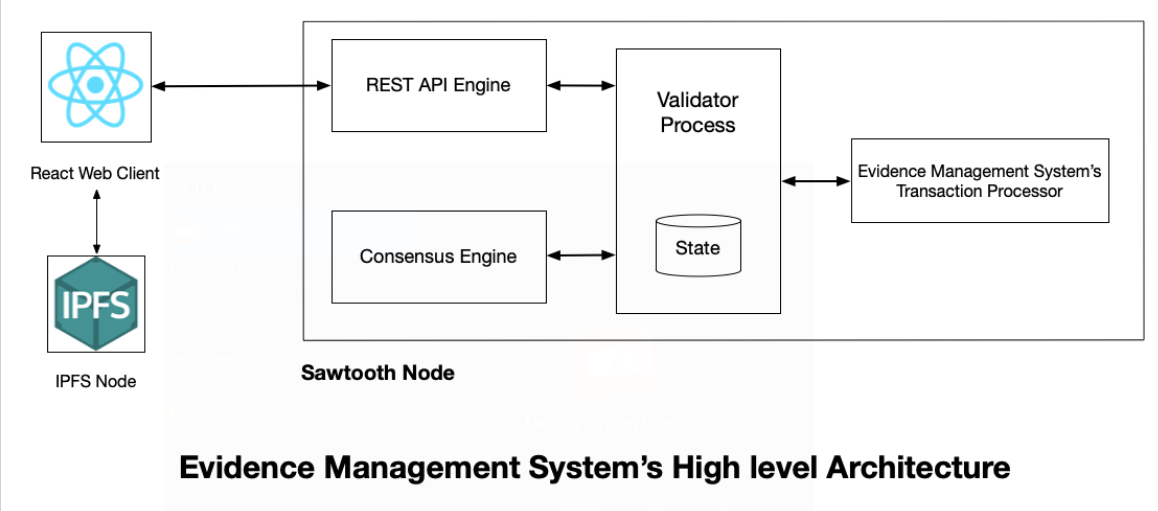
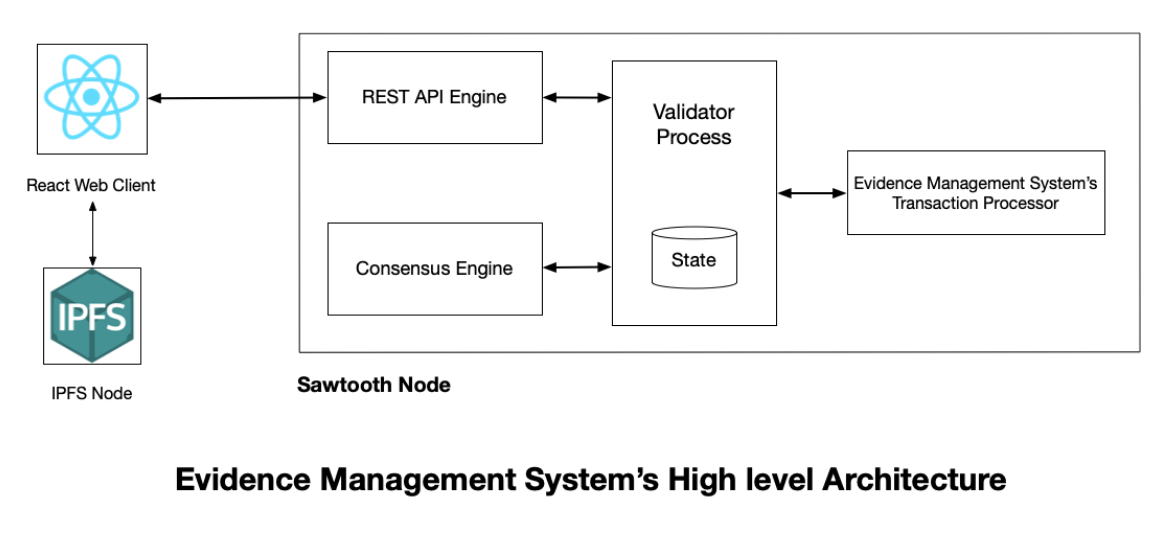
Readme image fixed

diff --git a/README.md b/README.md
@@ -6,7 +6,7 @@ Evidence Management System based on Hyperledger Sawtooth using IPFS with PBFT or
 
 **Check out the Transaction Processor code and Full Documentation [here](https://github.com/Shritesh99/Evidence-Management-System)**
 
-![arch]("/img/arch.png")
+![arch](/img/arch.png)
 
 ### Screenshots
 
